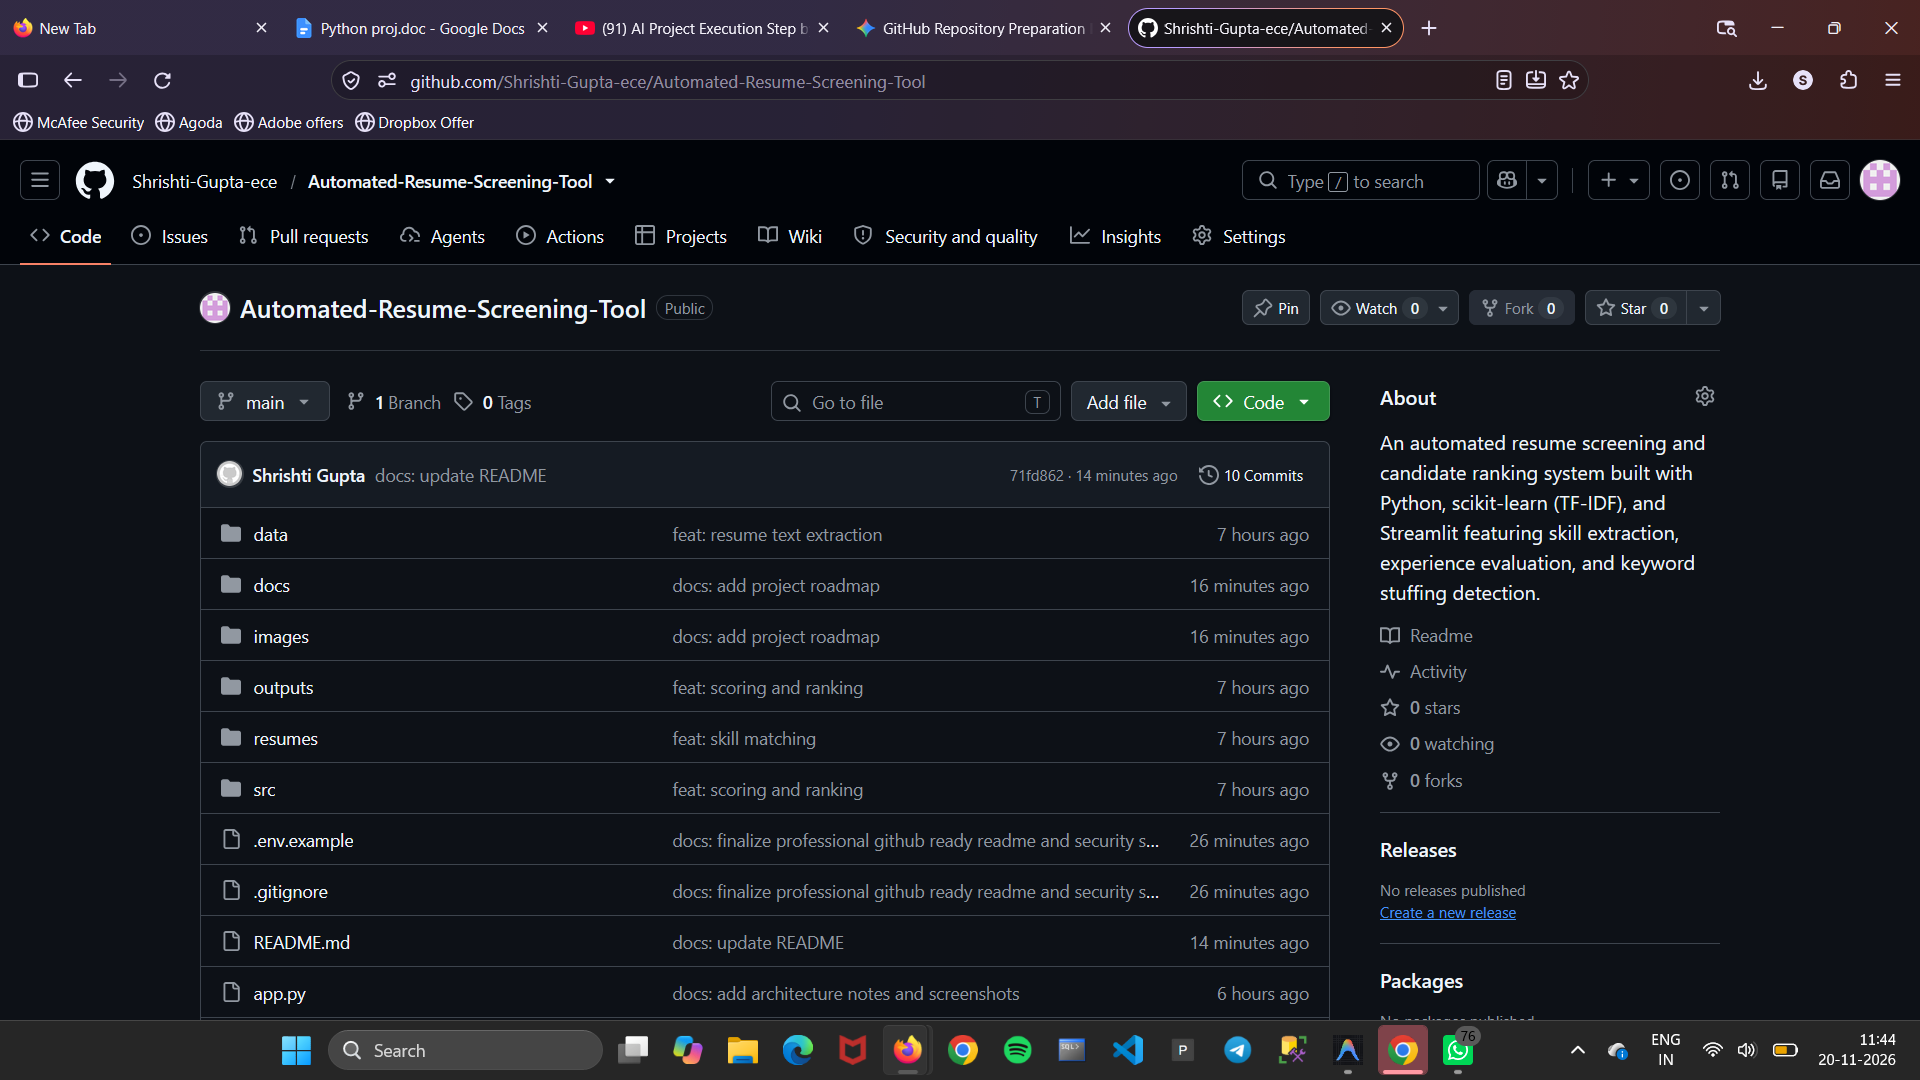
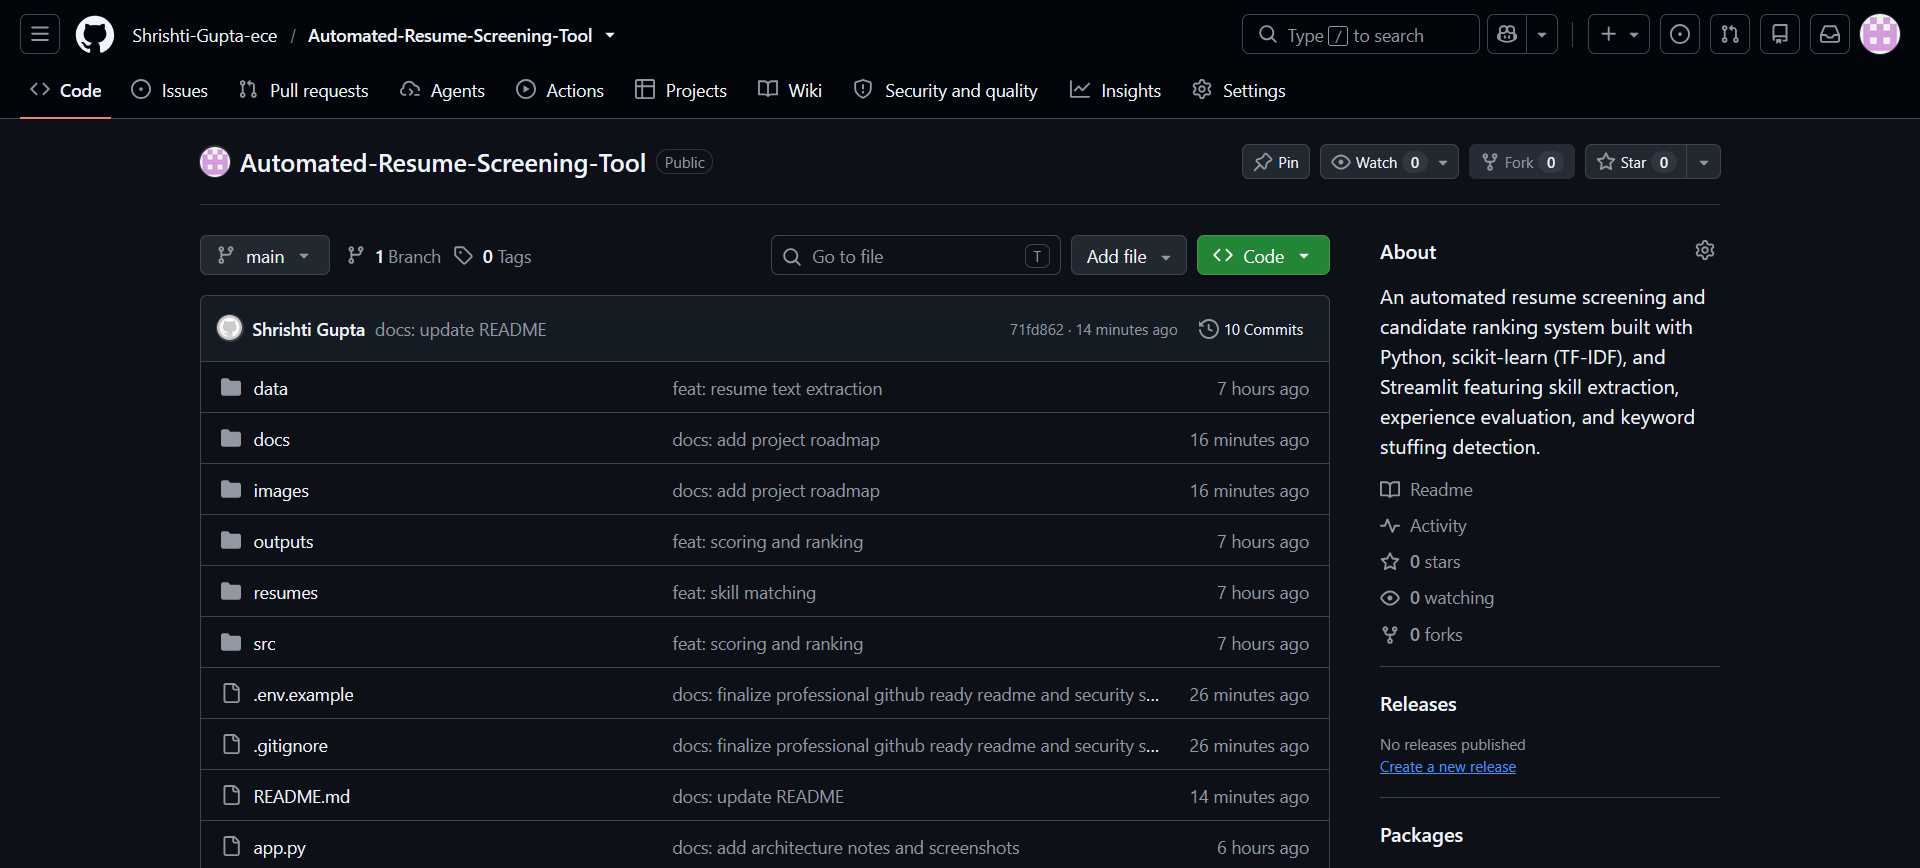
docs: add author links and acknowledgement

Changed region(s): [[0.0, 0.0, 1.0, 1.0]]

diff --git a/README.md b/README.md
@@ -366,3 +366,11 @@ See the full checklist in [docs/ROADMAP.md](docs/ROADMAP.md).
 ## Demo Video
 
 [Watch the demo video](images/web_interface/dashboard.mp4)
+
+# Author
+
+**Shrishti Gupta**
+- LinkedIn: https://www.linkedin.com/in/shrishti-gupta-630209294
+- GitHub: https://github.com/Shrishti-Gupta-ece
+
+Thanks to Mr. Umesh Yadav, Founder of IIP (Indian Institute of Placement), and the IIP team for their guidance during this project.
